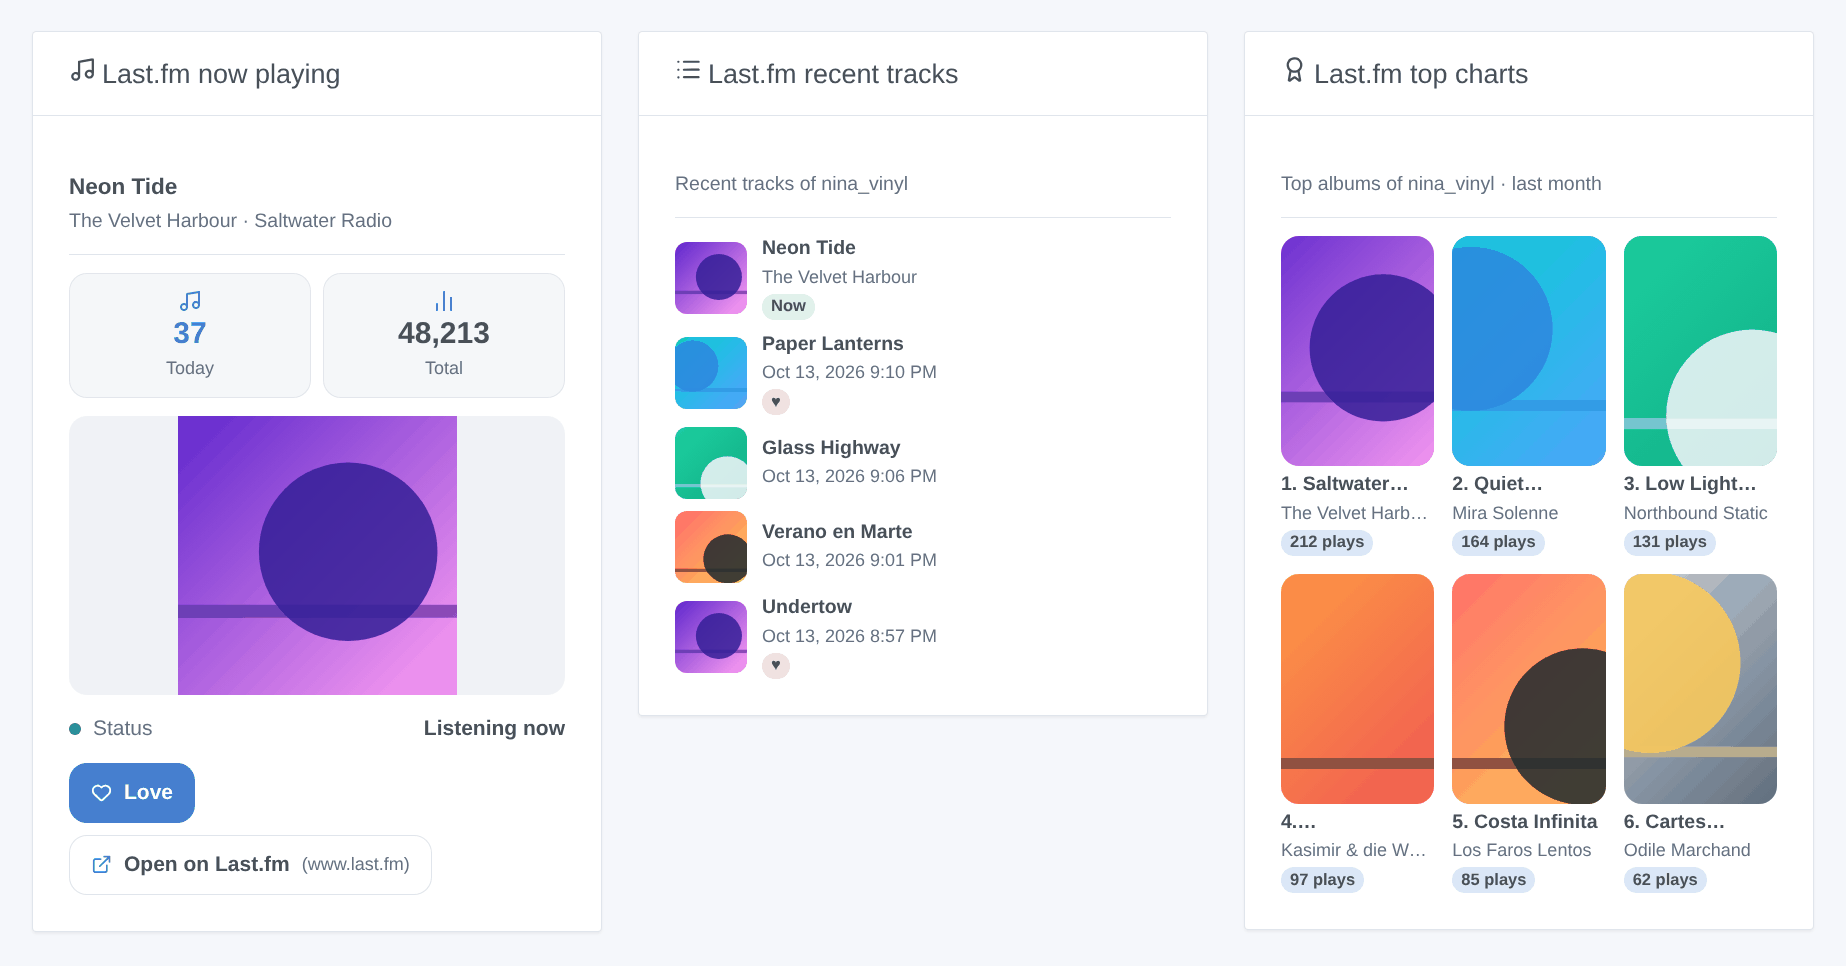
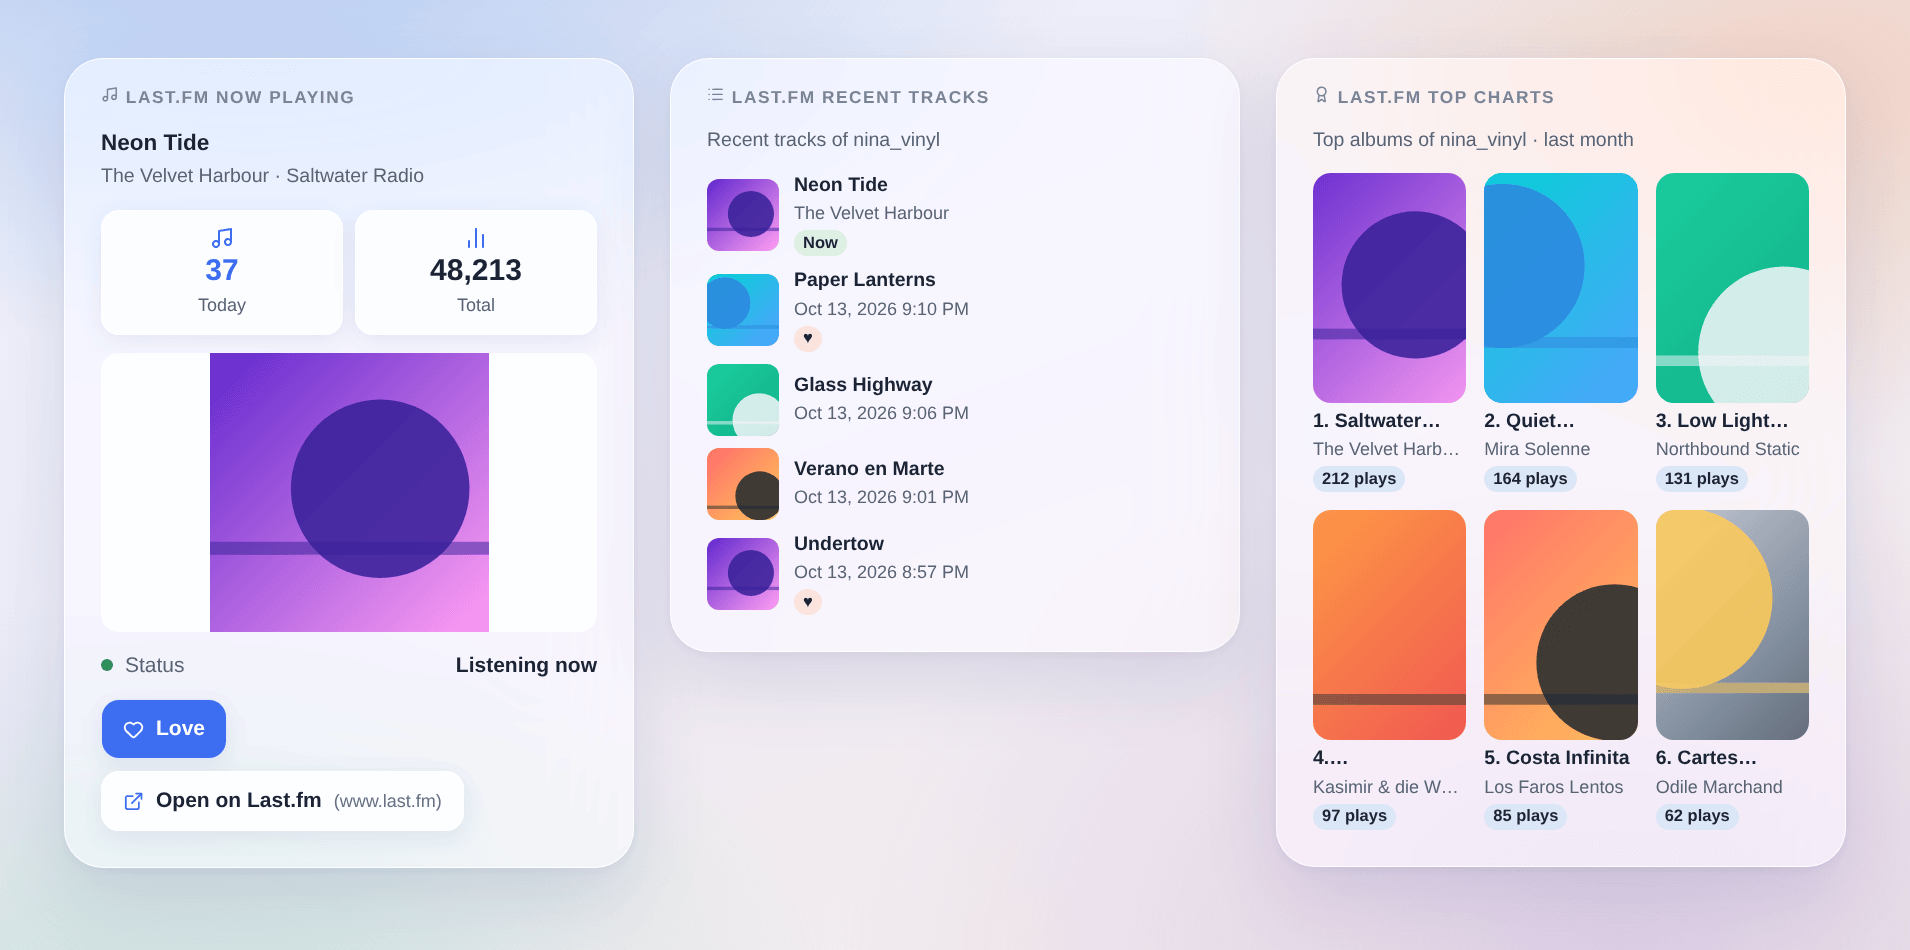
docs: widget illustrations in the Gladys 5 look (Horizon glass dashboard)
The illustrations used the Gladys v4 card look. render.sh now takes the styles of the current Gladys front, adds the Horizon dashboard theme (glass cards, uppercase title, default scene) and quantizes with libimagequant so the small colored dots survive the gradient.

diff --git a/docs/illustrations/index.html b/docs/illustrations/index.html
@@ -5,10 +5,25 @@
     <link rel="stylesheet" href="vendor/theme/package/dashboard.css" />
     <link rel="stylesheet" href="widget.css" />
     <link rel="stylesheet" href="dark-mode.css" />
+    <link rel="stylesheet" href="horizon.css" />
     <style>
       body {
-        background: #f5f7fb;
-        padding: 24px;
+        background: #fff;
+        margin: 0;
+        padding: 8px;
+      }
+      /* the page header of the theme shares the class name of the widget
+         header slot (a CSS module class in Gladys): keep it off the widget */
+      .card .header {
+        padding: 0;
+        background: none;
+        border-bottom: 0;
+      }
+      /* the dashboard scene, a margin around the cards for their shadow */
+      #stage {
+        display: inline-block;
+        overflow: hidden;
+        padding: 40px 44px 56px;
       }
       #row {
         display: flex;
@@ -33,7 +48,7 @@
     <script src="data.js"></script>
   </head>
   <body>
-    <div id="row"></div>
+    <div id="stage" class="glass-theme glassScene"><div id="row"></div></div>
     <script>
       if (new URLSearchParams(location.search).get('theme') === 'dark') {
         document.documentElement.classList.add('dark-mode');
